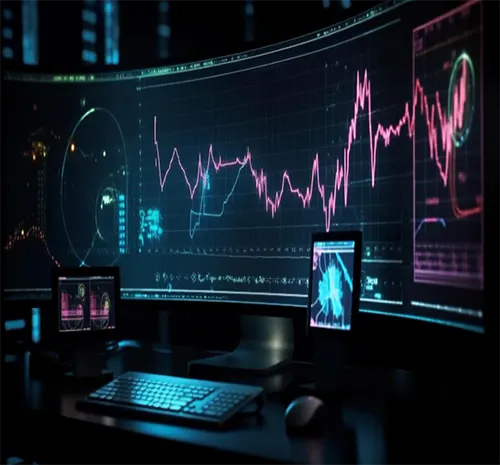
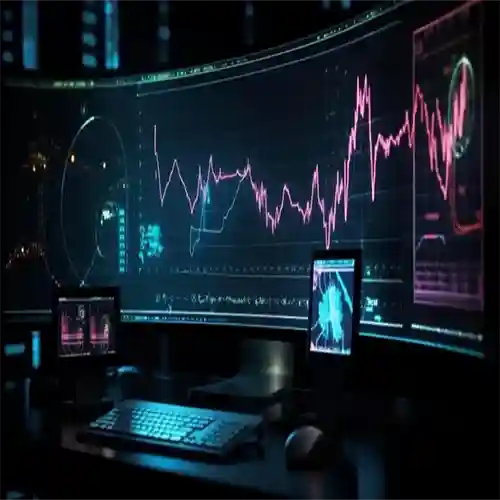
testing

diff --git a/styles/styles.css b/styles/styles.css
@@ -192,7 +192,7 @@ section {
 #image {
   background: transparent;
   width: 100%;
-  height: 80vh;
+  height: 100vh;
   margin-left: 0rem;
 }
 
@@ -210,8 +210,8 @@ section {
 /* ETUSIVUN NIMI TYYLI */
 .name {
   font-family: "Bebas Neue", serif;
-  font-weight: 400;
-  font-style: normal;
+  font-weight: 100;
+  
 }
 
 
@@ -1366,7 +1366,6 @@ section {
   
   .right-header .name {
     text-align: center;
-    
   }
 
  

diff --git a/index.html b/index.html
@@ -29,7 +29,7 @@
             <div class="left-header">
                 
                 <div class="image" id="image">
-                    <img src="img/sme.webp" alt="Jarno Kiimala | Knowledge Management and Leadership">
+                    <img src="img/smes2.webp" alt="Jarno Kiimala | Knowledge Management and Leadership">
                 </div>
             </div>
             <div class="right-header">
